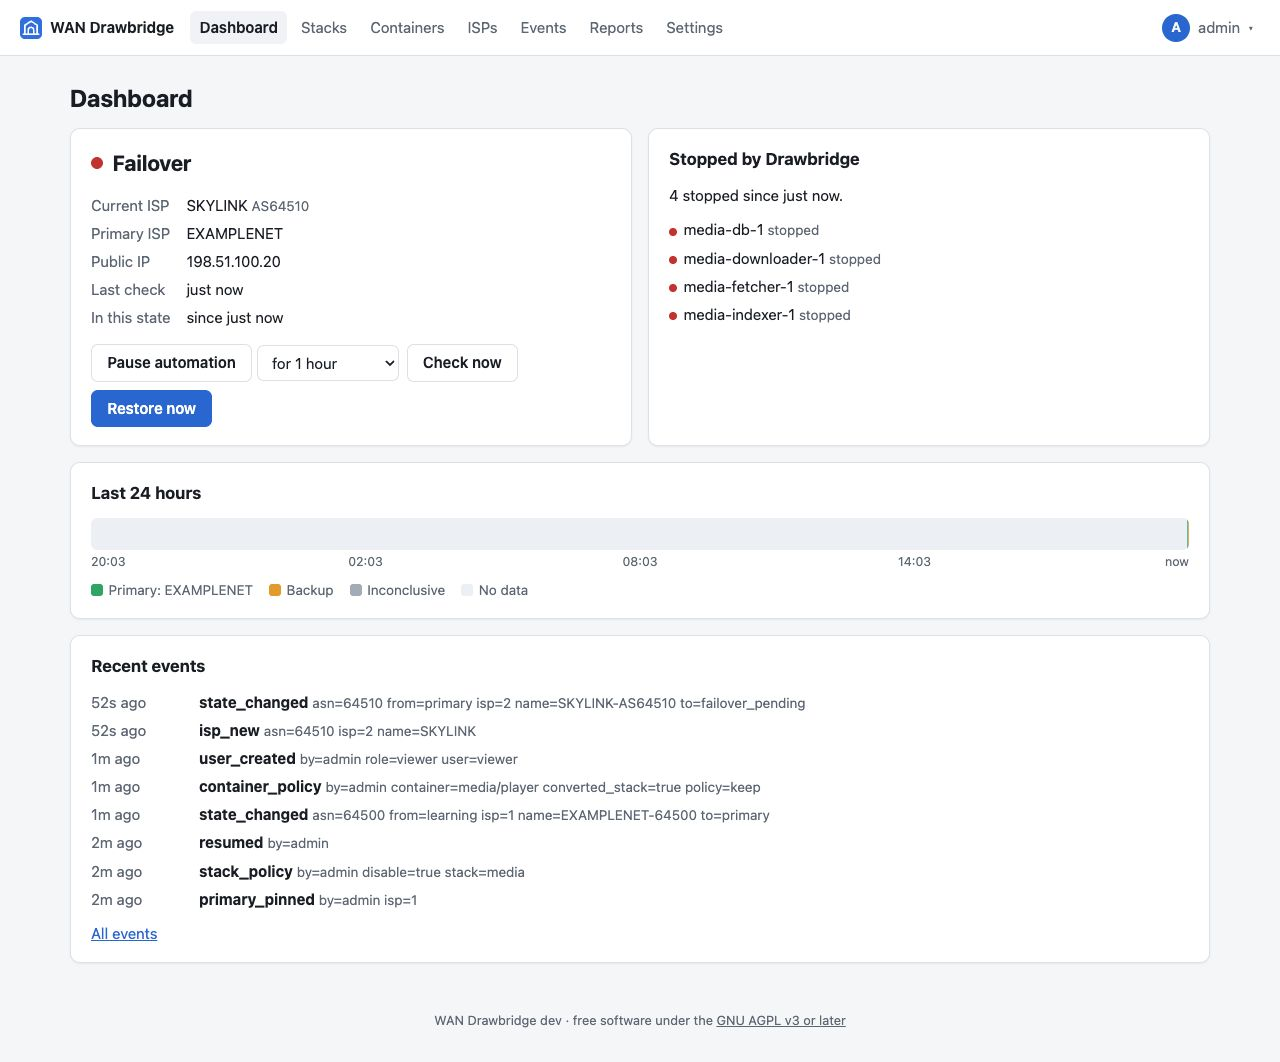
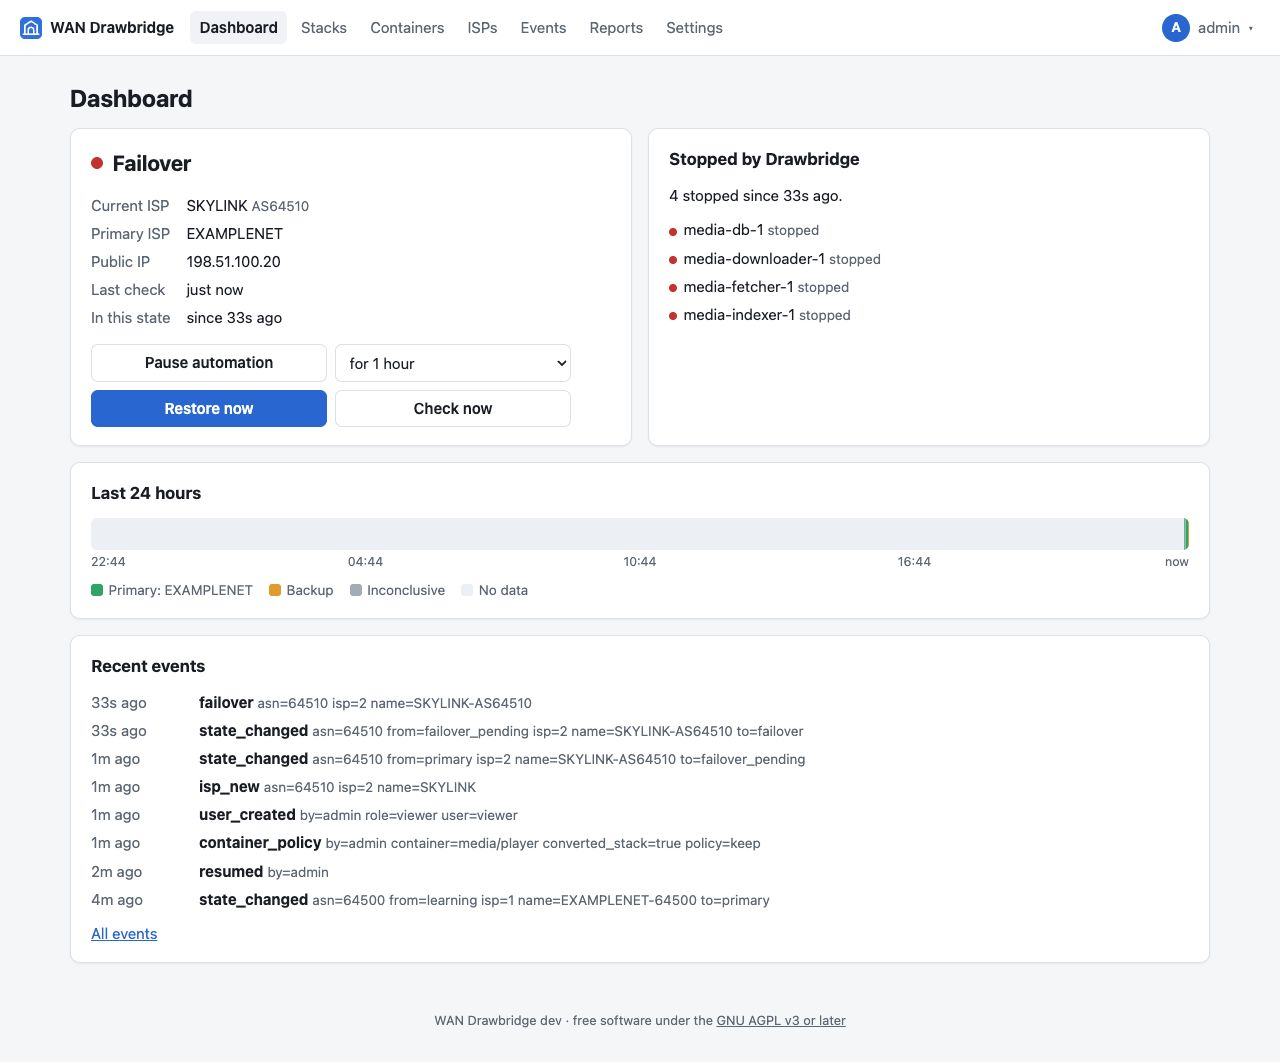
Align the dashboard buttons in two equal columns

diff --git a/internal/web/templates/dashboard.html b/internal/web/templates/dashboard.html
@@ -40,7 +40,7 @@
     </dl>
     {{if .IsAdmin}}
     <div class="actions">
-      {{if .S.Paused}}<button hx-post="/actions/resume" hx-target="#status" hx-swap="outerHTML">Resume automation</button>
+      {{if .S.Paused}}<button class="wide" hx-post="/actions/resume" hx-target="#status" hx-swap="outerHTML">Resume automation</button>
       {{else}}<span class="pause">
         <button class="secondary" hx-post="/actions/pause" hx-include="next select" hx-target="#status" hx-swap="outerHTML">Pause automation</button>
         <select name="for" aria-label="How long to pause">
@@ -52,7 +52,6 @@
           <option value="">until I resume</option>
         </select>
       </span>{{end}}
-      <button class="secondary" hx-post="/actions/check" hx-target="#status" hx-swap="outerHTML">Check now</button>
       {{if not .S.DrillTill.IsZero}}
       <button hx-post="/actions/drill-end" hx-target="#status" hx-swap="outerHTML">End test now</button>
       {{else if or .Run (eq .S.State "failover") (eq .S.State "failback_pending")}}
@@ -61,7 +60,9 @@
       {{else}}
       <button class="danger" hx-post="/actions/failover" hx-target="#status" hx-swap="outerHTML"
         hx-confirm="Stop every container set to stop on failover, now? Drawbridge restores them once it confirms the primary ISP, unless automation is paused.">Fail over now</button>
-      {{if or (eq .S.State "primary") (eq .S.State "learning")}}<span class="pause">
+      {{end}}
+      <button class="secondary" hx-post="/actions/check" hx-target="#status" hx-swap="outerHTML">Check now</button>
+      {{if and .S.DrillTill.IsZero (not .Run) (or (eq .S.State "primary") (eq .S.State "learning"))}}<span class="pause">
         <button class="secondary" hx-post="/actions/drill" hx-include="next select" hx-target="#status" hx-swap="outerHTML"
           hx-confirm="Stop every container set to stop on failover, as a test, and start them again when the time is up?">Test failover</button>
         <select name="for" aria-label="How long the test lasts">
@@ -71,7 +72,6 @@
           <option value="15m">for 15 minutes</option>
         </select>
       </span>{{end}}
-      {{end}}
     </div>
     {{end}}
   </div>

diff --git a/internal/web/static/app.css b/internal/web/static/app.css
@@ -220,8 +220,11 @@ main.narrow { max-width: 420px; padding-top: 12vh; }
 .stack { display: grid; gap: 0.9rem; }
 .row { display: flex; gap: 1rem; align-items: center; flex-wrap: wrap; margin-bottom: 1rem; }
 .row.end { align-items: flex-end; }
-.actions { display: flex; gap: 0.5rem; flex-wrap: wrap; margin-top: 1rem; }
-.actions .pause { display: inline-flex; gap: 0.35rem; align-items: center; }
+/* Dashboard controls: two equal columns, a button and its duration side by side. */
+.actions { display: grid; grid-template-columns: repeat(2, minmax(0, 1fr)); gap: 0.5rem; max-width: 30rem; margin-top: 1rem; }
+.actions .wide { grid-column: span 2; }
+.actions .pause { grid-column: span 2; display: grid; grid-template-columns: subgrid; }
+.actions button, .actions select { width: 100%; margin: 0; }
 .right { text-align: right; }
 .nowrap { white-space: nowrap; }
 .narrow-form { max-width: 360px; }

diff --git a/docs/user/web-ui.md b/docs/user/web-ui.md
@@ -59,6 +59,10 @@ The facts below the label:
 
 ### Buttons (admins)
 
+The buttons sit in two equal columns: Pause automation and how long on the
+first row (Resume automation fills the row while paused), then Fail over now,
+Restore now or End test now beside Check now, then Test failover and how long.
+
 | Button | When shown | What it does |
 | --- | --- | --- |
 | Pause automation / Resume automation | Always | Pausing keeps checking but stops all container actions, for the time chosen next to the button (30 minutes to 24 hours, default 1 hour) or until resumed. Resuming brings containers in line with the current state at once: stopped if in Failover, started again if on the primary. |
